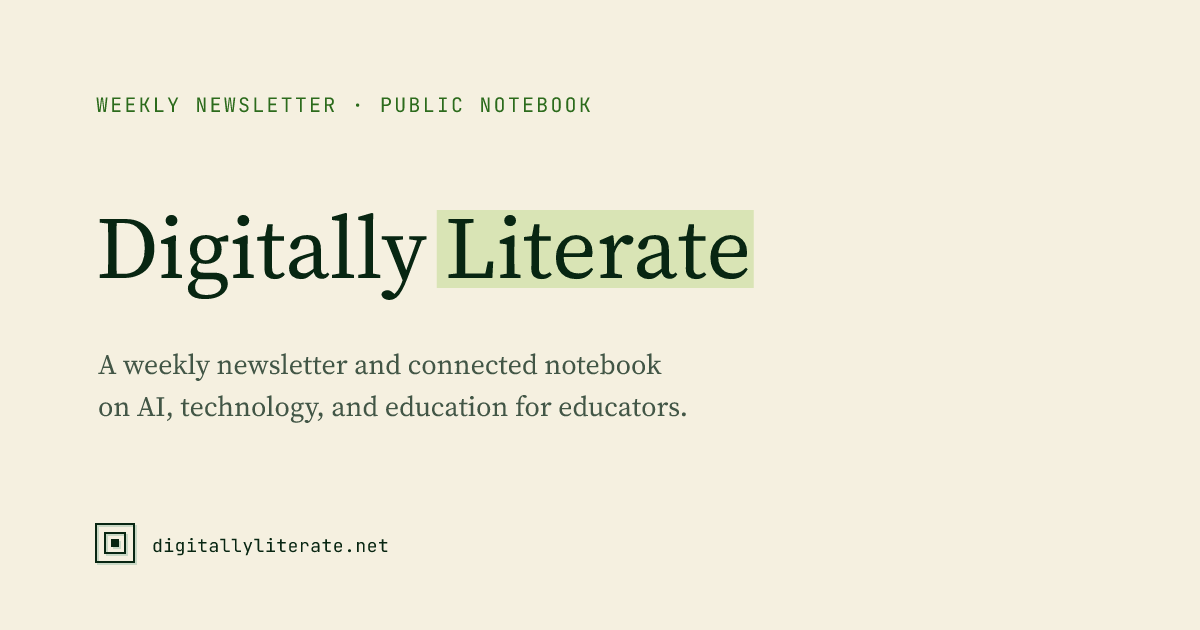
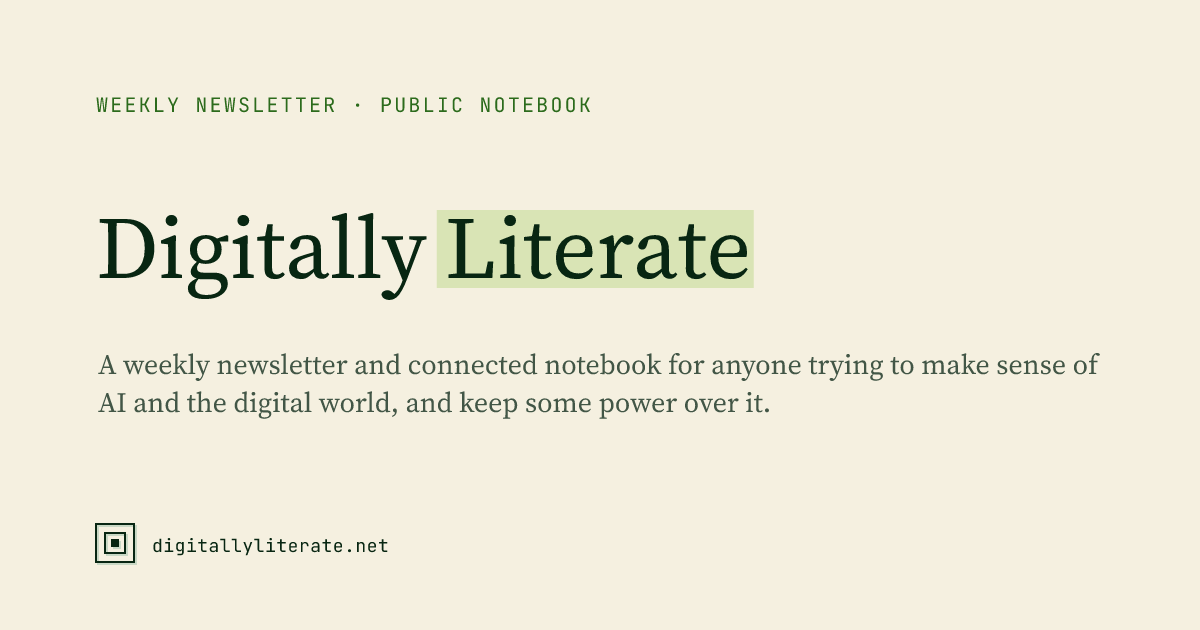
Update Digitally Literate positioning and homepage (#33)
* Update Digitally Literate positioning and homepage

* Refine issue closers and homepage pathways

* Reorder issue author links

Changed region(s): [[0.0617, 0.6032, 0.6475, 0.6635], [0.555, 0.573, 0.925, 0.6032]]

diff --git a/src/site/styles/user/010-garden-slice.scss b/src/site/styles/user/010-garden-slice.scss
@@ -426,6 +426,10 @@ body.dl-home .content > h2,
   text-transform: none;
 }
 
+body.dl-home .content > h2 {
+  margin-top: clamp(3rem, 7vw, 4.5rem) !important;
+}
+
 body.dl-note .content h3,
 body.dl-note .content h4 {
   color: var(--garden-ink);
@@ -570,6 +574,70 @@ body.dl-note table { border-radius: 0 !important; }
 .garden-index {
   margin-top: clamp(3rem, 7vw, 4.5rem);
   border-top: 0;
+}
+
+.dl-home-intro {
+  margin: 0 0 clamp(2rem, 5vw, 3.5rem);
+}
+
+.dl-home-intro h1 {
+  margin: 0 0 1.1rem;
+  color: var(--garden-ink);
+  font-family: var(--garden-font-read);
+  font-size: clamp(2.35rem, 6vw, 3.5rem);
+  font-weight: 600;
+  line-height: 1.08;
+}
+
+.dl-home-tagline {
+  max-width: 44rem;
+  margin: 0 0 0.75rem;
+  color: var(--garden-ink);
+  font-family: var(--garden-font-read);
+  font-size: clamp(1.25rem, 2.8vw, 1.6rem);
+  line-height: 1.4;
+}
+
+.dl-home-deck {
+  max-width: 44rem;
+  margin: 0;
+  color: var(--garden-ink-muted);
+  font-size: 1rem;
+  line-height: 1.7;
+}
+
+.dl-home-actions {
+  display: flex;
+  flex-wrap: wrap;
+  align-items: center;
+  gap: 0.7rem 1.1rem;
+  margin: 1.1rem 0 0;
+}
+
+.dl-home-actions a {
+  font-family: var(--garden-font-ui);
+  font-size: 0.8rem;
+  font-weight: 600;
+  text-decoration: none;
+}
+
+.dl-home-read { color: var(--garden-ink) !important; }
+
+.dl-home-subscribe {
+  display: inline-flex;
+  min-height: 2.5rem;
+  align-items: center;
+  gap: 0.45rem;
+  padding: 0.4rem 0.85rem;
+  border: var(--garden-rule-width) solid var(--garden-rule);
+  color: var(--garden-ink) !important;
+  letter-spacing: 0.05em;
+  text-transform: uppercase;
+}
+
+.dl-home-subscribe:hover {
+  border-color: var(--garden-leaf);
+  color: var(--garden-leaf) !important;
 }
 
 .garden-index__eyebrow {
@@ -806,6 +874,20 @@ body.dl-note .content.dl-newsletter hr:first-of-type:not(:has(+ h1, + h2, + h3))
   text-align: left;
 }
 
+.footer-author {
+  display: flex;
+  align-items: center;
+  gap: 0.8rem;
+  margin-bottom: 0.85rem;
+}
+
+.footer-avatar {
+  flex: 0 0 40px;
+  width: 40px;
+  height: 40px;
+  object-fit: cover;
+}
+
 .footer-line {
   max-width: none;
   margin: 0;
@@ -977,24 +1059,34 @@ body.dl-note .content .dl-issue-label + h1 {
   margin-top: 0;
 }
 
-body.dl-note .content .dl-issue-closing {
+body.dl-note .content .dl-issue-author {
+  display: flex;
+  align-items: center;
+  gap: 1rem;
   margin: clamp(var(--garden-space-xl), 6vw, var(--garden-space-2xl)) 0 0;
   padding-top: var(--garden-space-md);
   border-top: var(--garden-rule-width) solid var(--garden-rule);
   color: var(--garden-ink-muted);
 }
 
-body.dl-note .content .dl-issue-closing p {
-  margin: 0 0 0.6rem;
-  font-size: 0.95em;
+body.dl-note .content .dl-issue-author > img {
+  flex: 0 0 64px;
+  width: 64px;
+  height: 64px;
+  object-fit: cover;
 }
 
-body.dl-note .content .dl-issue-closing .dl-issue-closing__label {
-  margin-bottom: 0.5rem;
-  color: var(--garden-leaf);
-  font-family: var(--font-sans);
+body.dl-note .content .dl-issue-author p {
+  margin: 0;
+  font-size: 0.92em;
+  line-height: 1.55;
+}
+
+body.dl-note .content .dl-issue-author .dl-issue-author__links {
+  display: flex;
+  flex-wrap: wrap;
+  gap: 0.45rem 0.7rem;
+  margin-top: 0.35rem;
+  font-family: var(--garden-font-meta);
   font-size: 0.75rem;
-  font-weight: 500;
-  letter-spacing: 0.12em;
-  text-transform: uppercase;
 }

diff --git a/src/helpers/userSetup.js b/src/helpers/userSetup.js
@@ -1,5 +1,6 @@
 const fs = require("fs");
 const path = require("path");
+const dlCopy = require("../site/_data/dlCopy");
 
 function escapeHtml(value) {
   return String(value).replace(/[&<>"']/g, function (character) {
@@ -216,6 +217,10 @@ function issueChrome(properties, fileSlug, inputPath) {
   return info && info.number >= ISSUE_CHROME_FROM ? info : null;
 }
 
+function newsletterInfo(properties, fileSlug, inputPath) {
+  return issueInfo(properties, fileSlug, inputPath);
+}
+
 const SUBSTACK_HOME = "https://digitallyliterate.substack.com/";
 
 // Substack link for an issue: the post itself when substack_url is set,
@@ -234,10 +239,10 @@ function issueIntroHtml(info) {
   var substack = substackLink(info);
   var dot = ' <span aria-hidden="true">·</span> ';
   return '<section class="dl-issue-intro" aria-label="About Digitally Literate">' +
-    '<p><strong>Digitally Literate</strong> is a weekly letter by <a href="https://wiobyrne.com/">Ian O\'Byrne</a> about the forces shaping how we read, write, learn, and live in digital spaces.</p>' +
-    '<p class="dl-issue-intro__links"><a href="/subscribe/">Subscribe</a>' + dot +
+    '<p><strong>Digitally Literate</strong>: ' + escapeHtml(dlCopy.tagline) + '</p>' +
+    '<p class="dl-issue-intro__links"><a href="' + dlCopy.subscribeUrl + '">Subscribe</a>' + dot +
     '<a href="mailto:hello@wiobyrne.com">hello@wiobyrne.com</a>' + dot +
-    '<a href="https://wiobyrne.com/">Main blog</a>' + dot +
+    '<a href="https://wiobyrne.com/">wiobyrne.com</a>' + dot +
     '<a href="' + escapeHtml(substack.href) + '">' + (substack.comment ? "Comment on Substack" : "Read on Substack") + '</a></p>' +
     '</section>';
 }
@@ -294,6 +299,7 @@ function archetypeClass(item) {
 function userEleventySetup(eleventyConfig) {
   eleventyConfig.addFilter("apparatusOgImage", resolveOgImage);
   eleventyConfig.addFilter("dlIssueChrome", issueChrome);
+  eleventyConfig.addFilter("dlNewsletterInfo", newsletterInfo);
   eleventyConfig.addFilter("dlIssueIntroTop", issueIntroTop);
   eleventyConfig.addFilter("dlSubstackLink", substackLink);
   eleventyConfig.addPassthroughCopy({
@@ -405,6 +411,21 @@ function userEleventySetup(eleventyConfig) {
     }).sort(function (a, b) {
       return updateDate(b) - updateDate(a);
     }).slice(0, 3);
+  });
+
+  // The homepage can surface up to two published Groves once they exist.
+  eleventyConfig.addCollection("recentGroves", function (collectionApi) {
+    function updateDate(item) {
+      var properties = noteProperties(item);
+      var value = item.data.updated || item.data.last_updated || properties.last_updated || properties.created || item.date || 0;
+      var parsed = value instanceof Date ? value : new Date(value);
+      return Number.isNaN(parsed.getTime()) ? 0 : parsed.getTime();
+    }
+    return collectionApi.getFilteredByTag("note").filter(function (item) {
+      return hasCategory(item, "Grove");
+    }).sort(function (a, b) {
+      return updateDate(b) - updateDate(a);
+    }).slice(0, 2);
   });
 
   // Assign the public page archetype class to every note, derived from its

diff --git a/scripts/generate-og-card.js b/scripts/generate-og-card.js
@@ -4,6 +4,7 @@ const { performance } = require("node:perf_hooks");
 const matter = require("gray-matter");
 const { Resvg } = require("@resvg/resvg-js");
 const matterOptions = require("../src/helpers/matterOptions");
+const dlCopy = require("../src/site/_data/dlCopy");
 const {
   hasCategory,
   newsletterIssueNumber,
@@ -106,6 +107,9 @@ function makeDefaultSvg() {
   const highlightX = secondPartX - 8;
   const highlightY = titleBaseline - 68;
   const highlightWidth = secondPartWidth + 18;
+  const descriptionMarkup = wrapDescription(dlCopy.tagline, 28, 1004, 3)
+    .map((line, index) => `<text x="98" y="${374 + index * 38}" fill="${colors.muted}" font-family="Source Serif 4" font-size="28" font-weight="400">${escapeXml(line)}</text>`)
+    .join("\n  ");
 
   return `<?xml version="1.0" encoding="UTF-8"?>
 <svg xmlns="http://www.w3.org/2000/svg" width="${WIDTH}" height="${HEIGHT}" viewBox="0 0 ${WIDTH} ${HEIGHT}">
@@ -117,8 +121,7 @@ function makeDefaultSvg() {
   <text x="${titleX}" y="${titleBaseline}" fill="${colors.ink}" font-family="Source Serif 4" font-size="${titleSize}" font-weight="600">${escapeXml(firstTitlePart)}</text>
   <text x="${secondPartX}" y="${titleBaseline}" fill="${colors.ink}" font-family="Source Serif 4" font-size="${titleSize}" font-weight="600">${secondTitlePart}</text>
 
-  <text x="98" y="374" fill="${colors.muted}" font-family="Source Serif 4" font-size="28" font-weight="400">A weekly newsletter and connected notebook</text>
-  <text x="98" y="416" fill="${colors.muted}" font-family="Source Serif 4" font-size="28" font-weight="400">on AI, technology, and education for educators.</text>
+  ${descriptionMarkup}
 
   <g transform="translate(98 526)" fill="none" stroke="${colors.siblingGreen}" stroke-width="2" opacity="0.18">
     <rect width="38" height="38"/>

diff --git a/src/site/_data/dlCopy.js b/src/site/_data/dlCopy.js
@@ -1,0 +1,14 @@
+// Shared publication copy. Keep the public description, author line, and
+// contact paths here so the homepage, issue pages, feed, and social card agree.
+module.exports = {
+  tagline:
+    "A weekly newsletter and connected notebook for anyone trying to make sense of AI and the digital world, and keep some power over it.",
+  intro:
+    "Every Wednesday, I explain what's changing, why it matters, and what you can actually do about it, connecting research with everyday life in classrooms, workplaces, and homes.",
+  authorName: "Ian O’Byrne",
+  authorBio:
+    "Ian O’Byrne is a literacy researcher and professor exploring power, agency, and who gets to decide how technology shapes our lives.",
+  avatar: "/img/ian-obyrne.jpg",
+  workWithMeUrl: "https://wiobyrne.com/work-with-me/",
+  subscribeUrl: "/subscribe/",
+};

diff --git a/src/site/_data/meta.js b/src/site/_data/meta.js
@@ -1,5 +1,6 @@
 require("dotenv").config();
 const { globSync } = require("glob");
+const dlCopy = require("./dlCopy");
 
 module.exports = async (data) => {
   let baseUrl = process.env.SITE_BASE_URL || "";
@@ -107,6 +108,7 @@ module.exports = async (data) => {
     timestampSettings,
     baseTheme: process.env.BASE_THEME || "dark",
     siteName: process.env.SITE_NAME_HEADER || "Digital Garden",
+    siteDescription: dlCopy.tagline,
     siteLogoPath: logoPath,
     logoHeight,
     mainLanguage: process.env.SITE_MAIN_LANGUAGE || "en",

diff --git a/src/site/notes/03 CREATE/32 Digitally Literate/Pages/Digitally Literate.md b/src/site/notes/03 CREATE/32 Digitally Literate/Pages/Digitally Literate.md
@@ -1,31 +1,17 @@
 ---
-{"dg-publish":true,"permalink":"/03-create/32-digitally-literate/pages/digitally-literate/","title":"Digitally Literate","metatags":{"description":"A newsletter and connected notebook about how we read, write, learn, and live in digital spaces.","og:title":"Digitally Literate","og:description":"A newsletter and connected notebook about how we read, write, learn, and live in digital spaces.","og:type":"website"},"contentClasses":"dl-note dl-page","tags":["digital-literacy","newsletter","digital-garden","gardenEntry"],"dg-note-properties":{"title":"Digitally Literate","categories":"Page","tags":["digital-literacy","newsletter","digital-garden","gardenEntry"],"created":"2024-11-16","last_updated":"2026-07-21","description":"A newsletter and connected notebook about how we read, write, learn, and live in digital spaces."}}
+{"dg-publish":true,"permalink":"/03-create/32-digitally-literate/pages/digitally-literate/","title":"Digitally Literate","metatags":{"description":"A newsletter and connected notebook about how we read, write, learn, and live in digital spaces.","og:title":"Digitally Literate","og:description":"A newsletter and connected notebook about how we read, write, learn, and live in digital spaces.","og:type":"website"},"contentClasses":"dl-note dl-page","tags":["digital-literacy","newsletter","digital-garden","gardenEntry"],"dg-note-properties":{"title":"Digitally Literate","categories":"Page","tags":["digital-literacy","newsletter","digital-garden","gardenEntry"],"created":"2024-11-16","last_updated":"2026-11-13","description":"A newsletter and connected notebook about how we read, write, learn, and live in digital spaces."}}
 ---
 
-# Digitally Literate
+## New here?
 
-**A weekly newsletter about AI, technology, and education—for educators making sense of a changing digital world.**
+Read the latest issue, browse the newsletter archive, or follow an idea into the connected notebook.
 
-Each week, I separate signal from noise, connect research with practice, and share ideas for classrooms, schools, and organizations.
+- **[Browse the archive](/newsletter/)** — every issue, from the early TL;DR years to the current newsletter.
+- **[Explore the garden](/start-here/)** — begin with durable ideas and guided paths through connected issues.
+- **[Visit wiobyrne.com](https://wiobyrne.com)** — essays, publications, book notes, and more from Ian O’Byrne.
 
-[Read the newsletter](/newsletter/) · [Subscribe](/subscribe/)
+The newsletter records what I’m thinking about now. The notebook gives ideas more room to develop:
 
----
-
-## Start here
-
-- **[Browse the archive](/newsletter/)** — explore every newsletter issue.
-- **[Explore the garden](/start-here/)** — follow ideas through Evergreens, Groves, and Forests.
-- **[Visit wiobyrne.com](https://wiobyrne.com)** — find finished essays, book notes, publications, and professional information.
-
----
-
-## Beyond the newsletter
-
-Some ideas need room to develop across issues rather than starting over each week. The connected notebook organizes those paths through three kinds of public notes:
-
-- **Evergreens** explain durable ideas and change as my thinking develops.
-- **Groves** connect notes and newsletter issues around a question or theme.
-- **Forests** index everything published here about a broader topic.
-
-[Learn how the site works](/start-here/)
+- **Evergreens** explain a durable idea on its own.
+- **Groves** are guided paths through related Evergreens and newsletter issues.
+- **Forests** gather published work around a broader topic.

diff --git a/design.md b/design.md
@@ -153,14 +153,17 @@ Evergreens. Public collections read `categories`, only.
 
 The front door. Use the shared Apparatus cues from wiobyrne.com: a generous
 single column, Source Serif page title and issue titles, quiet mono metadata,
-section heads with a small label and clear title, and ruled
-text rows. Keep each face in one role. Order: concise deck, clear Subscribe
-action and archive link → latest issue featured with its number, date, title,
-and description → four recent issues with the same metadata → recent Evergreens
-and a link to Start Here → compact footer. The template's inline `<h1>` is
-visually hidden; the authored H1 in the note carries the page. The hero has no
-illustration. Keep the Garden taxonomy on Start Here until Groves and Forests
-are published.
+section heads with a small label and clear title, and ruled text rows. Keep
+each face in one role. Order: the shared tagline and introduction with “Read
+the latest issue” and Subscribe actions → latest issue featured with its
+number, date, title, and description → four recent issues → recent Evergreens and up to two published Groves → the
+authored “New here?” pathways and short garden explainer → compact footer.
+Do not show a Forest listing until a Forest is published. The tagline, intro,
+author bio, avatar, and shared links live in `src/site/_data/dlCopy.js`; the
+“New here?” copy remains in the canonical Obsidian homepage note. The home
+intro is rendered by the site template before the generated content lists,
+while that authored note section is rendered after them. The hero has no
+illustration. Groves and Forests remain part of the garden's public structure.
 
 Section-head patterns currently differ across the two sites. wiobyrne.com uses
 a small square-marked label, an italic descriptor, and a right-aligned “View
